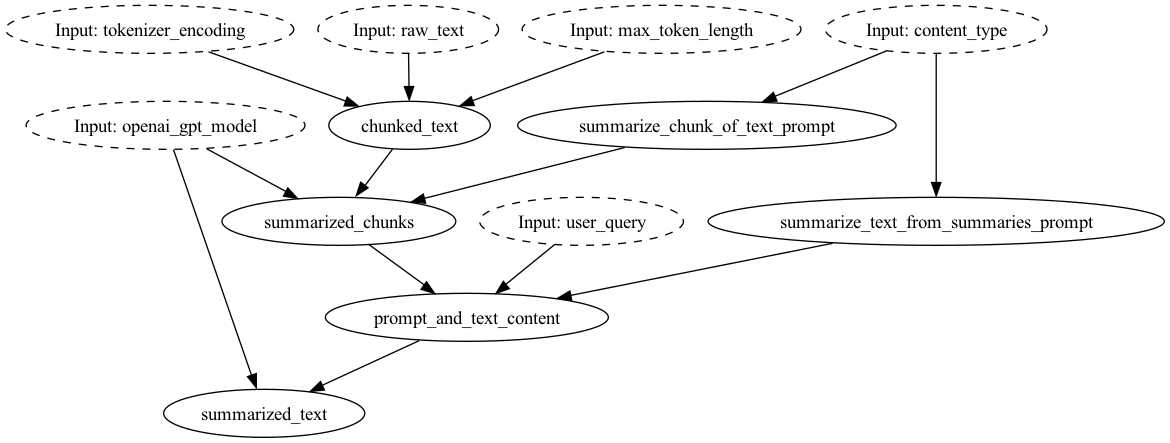
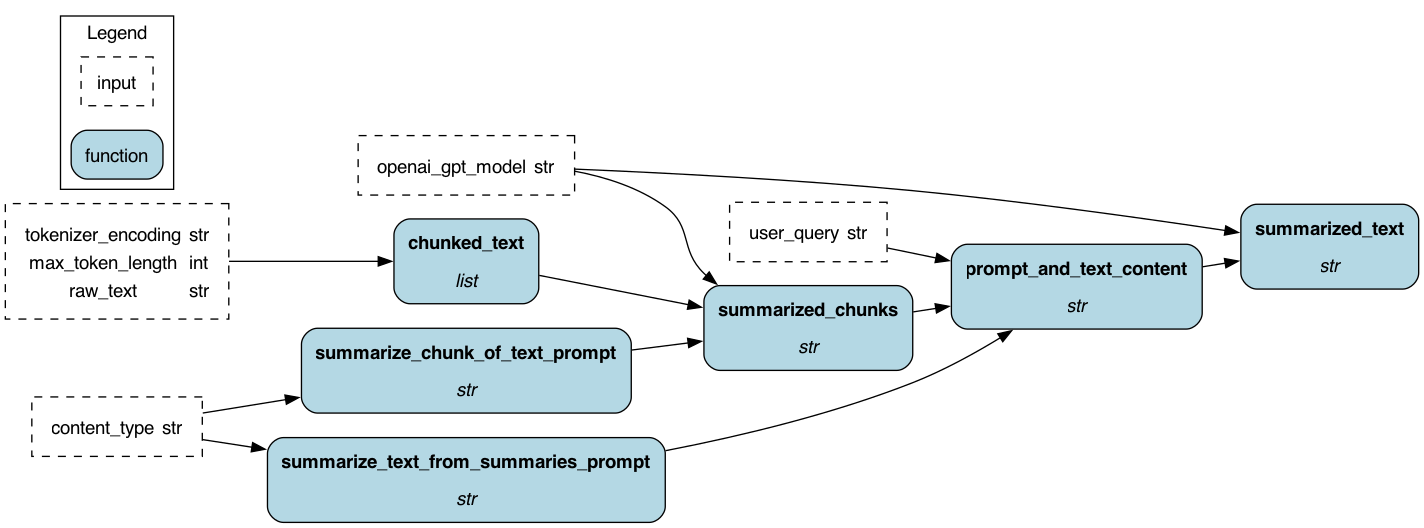
Updates pdf summarizer to use new openAI API
We were using the old version.

Where as for the knowledge retrieval I pin the version
because I don't want to deal with updating it.

diff --git a/examples/LLM_Workflows/pdf_summarizer/backend/summarization.py b/examples/LLM_Workflows/pdf_summarizer/backend/summarization.py
@@ -2,7 +2,9 @@ import concurrent
 import tempfile
 from typing import Generator, Union
 
-import openai
+from openai import OpenAI
+
+client = OpenAI()
 import tiktoken
 from PyPDF2 import PdfReader
 from tenacity import retry, stop_after_attempt, wait_random_exponential
@@ -83,17 +85,18 @@ def chunked_text(
 
 @retry(wait=wait_random_exponential(min=1, max=40), stop=stop_after_attempt(3))
 def _summarize_chunk(content: str, template_prompt: str, openai_gpt_model: str) -> str:
-    """This function applies a prompt to some input content. In this case it returns a summarized chunk of text.
+    """This helper function applies a prompt to some input content. In this case it returns a summarized chunk of text.
+
     :param content: the content to summarize.
     :param template_prompt: the prompt template to use to put the content into.
     :param openai_gpt_model: the openai gpt model to use.
     :return: the response from the openai API.
     """
     prompt = template_prompt + content
-    response = openai.ChatCompletion.create(
+    response = client.chat.completions.create(
         model=openai_gpt_model, messages=[{"role": "user", "content": prompt}], temperature=0
     )
-    return response["choices"][0]["message"]["content"]
+    return response.choices[0].message.content
 
 
 def summarized_chunks(
@@ -147,7 +150,7 @@ def summarized_text(
     :param openai_gpt_model: which openai gpt model to use.
     :return: the string response from the openai API.
     """
-    response = openai.ChatCompletion.create(
+    response = client.chat.completions.create(
         model=openai_gpt_model,
         messages=[
             {
@@ -157,7 +160,7 @@ def summarized_text(
         ],
         temperature=0,
     )
-    return response["choices"][0]["message"]["content"]
+    return response.choices[0].message.content
 
 
 if __name__ == "__main__":
@@ -171,4 +174,4 @@ if __name__ == "__main__":
         summarization,
         adapter=base.SimplePythonGraphAdapter(base.DictResult()),
     )
-    dr.display_all_functions("summary", {"format": "png"})
+    dr.display_all_functions("summarization_module.png", deduplicate_inputs=True)

diff --git a/examples/LLM_Workflows/pdf_summarizer/backend/server.py b/examples/LLM_Workflows/pdf_summarizer/backend/server.py
@@ -21,26 +21,26 @@ async_dr = h_async.AsyncDriver(
     summarization,  # python module containing function logic
     result_builder=base.DictResult(),
 )
-# sync driver for use with regular functions
-sync_dr = driver.Driver(
-    driver_config,
-    summarization,  # python module containing function logic
-    adapter=base.SimplePythonGraphAdapter(base.DictResult()),
-)
 
 # Uncomment this to get started with DAGWorks - see docs.dagworks.io for more info.
 # import os
-# from dagworks import driver as dw_driver
-# sync_dr = dw_driver.Driver(
-#     driver_config,
-#     summarization,  # python module containing function logic
-#     adapter=base.SimplePythonGraphAdapter(base.DictResult()),
-#     project_id=YOUR_PROJECT_ID,
+# from dagworks import adapters
+# tracker = adapters.DAGWorksTracker(
+#     project_id=66,
 #     api_key=os.environ["DAGWORKS_API_KEY"],
-#     username="YOUR_EMAIL",
+#     username="YOUR@EMAIL",
 #     dag_name="pdf_summarizer",
 #     tags={"env": "local", "origin": "fastAPI"}
 # )
+
+# sync driver for use with regular functions
+sync_dr = (
+    driver.Builder()
+    .with_config(driver_config)
+    .with_modules(summarization)  # python module containing function logic
+    # .with_adapters(tracker)  # uncomment this to get started with DAGWorks
+    .build()
+)
 
 
 class SummarizeResponse(pydantic.BaseModel):
